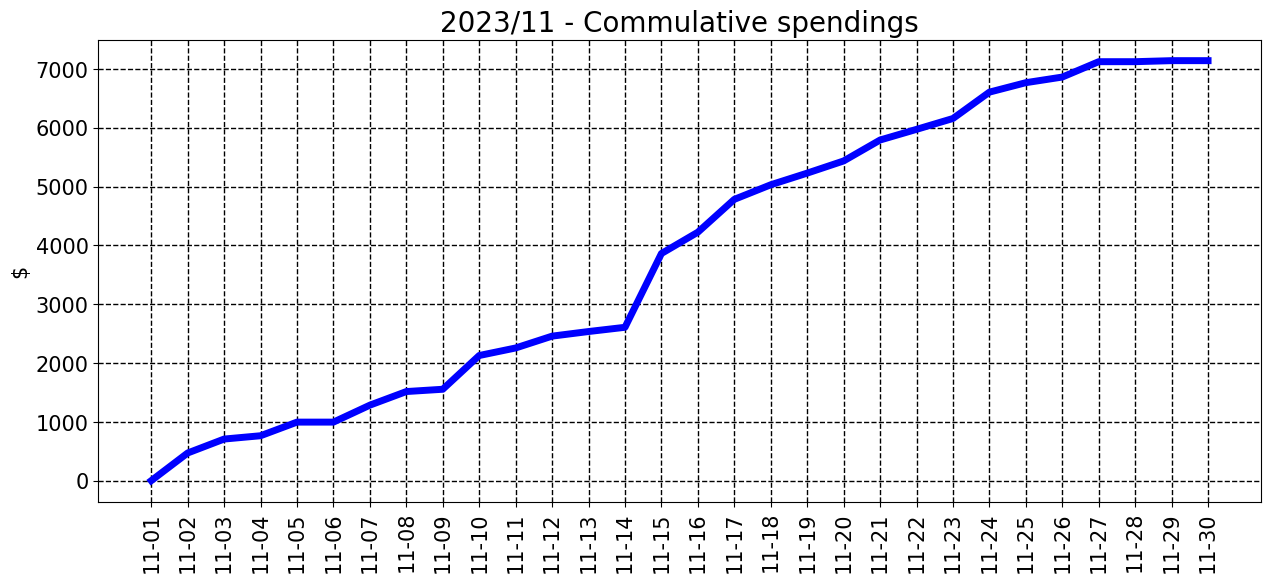
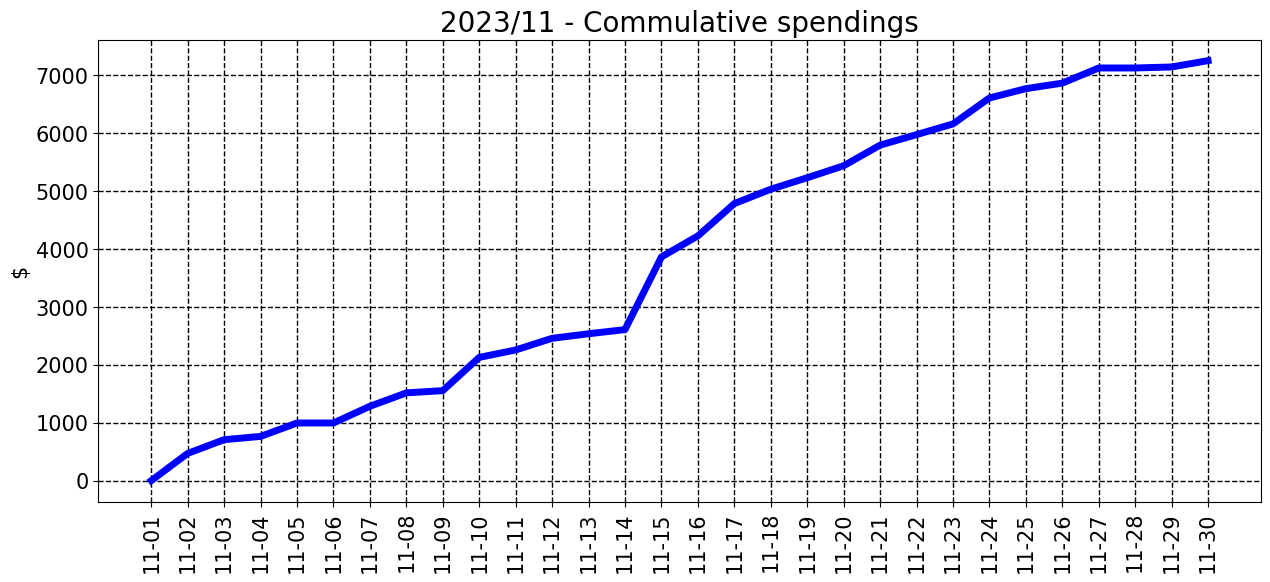
commit from python

diff --git a/README.md b/README.md
@@ -7,7 +7,7 @@ __________________________________
 <sub><sup>
 | Spent | Avg daily | End of month projection | Spent since 2023/7 |
 |---|---|---|---|
-| $7140.0  |  $238.0  | $7140.0  |  $27444.0  |
+| $7249.0  |  $241.6  | $7248.0  |  $27553.0  |
 </sub></sup>
 __________________________________
 ![graph_11_sum](graph_11_sum.png)
